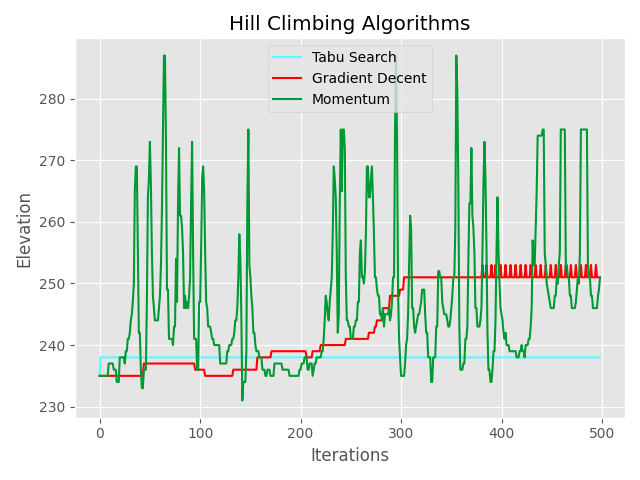
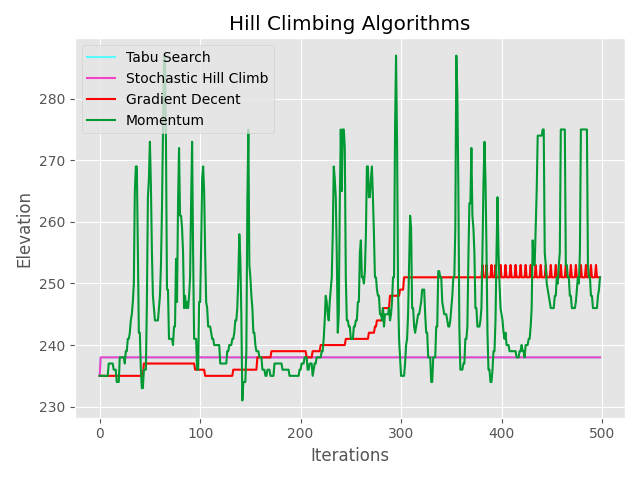
Stochastic hill climbing

Changed region(s): [[0.1562, 0.0938, 0.6562, 0.2812], [0.1562, 0.7188, 0.9375, 0.75]]

diff --git a/src/algorithms.py b/src/algorithms.py
@@ -1,5 +1,6 @@
+import random
 import numpy as np
-from .helpers import calculate_gradient, get_possible_steps
+from .helpers import calculate_gradient, get_possible_steps, get_step_costs
 
 
 def tabu_search(rmap, theta, tabu_size=10, num_iters=10000):
@@ -32,6 +33,33 @@ def tabu_search(rmap, theta, tabu_size=10, num_iters=10000):
         print(f'({i}/{num_iters}): Update is {best_t}')
 
     return best_t, j_history[:i]
+
+
+def stochastic_hill_climb(rmap, theta, num_iters=10000):
+    cost = rmap.get_cost(*theta)
+    elevation = rmap.get_elevation(*theta)
+    j_history = np.zeros(shape=(num_iters, 3))
+    j_history[0] = [elevation, theta[0], theta[1]]
+
+    for i in range(1, num_iters):
+        steps = get_possible_steps(theta)
+        step_costs = get_step_costs(rmap, steps)
+
+        # extra loop for randomness to settle in
+        for j in range(50):
+            step, step_cost = random.choice(list(zip(steps, step_costs)))
+
+            if step_cost <= cost:
+                theta = step
+                cost = step_cost
+
+        elevation = rmap.get_elevation(*theta)
+        j_history[i] = [elevation, theta[0], theta[1]]
+
+        print(f'Elevation at {theta} is {elevation}')
+        print(f'({i}/{num_iters}): Update is {theta}')
+
+    return theta, j_history[:i]
 
 
 def gradient_descent(rmap, theta, alpha=.01, num_iters=10000):

diff --git a/main.py b/main.py
@@ -12,6 +12,7 @@ current_map = RasterMap(args['tif'])
 
 algorithms = {
     'Tabu Search': {'function': algo.tabu_search, 'color': '#56FCFF'},
+    'Stochastic Hill Climb': {'function': algo.stochastic_hill_climb, 'color': '#F442C5'},
     'Gradient Decent': {'function': algo.gradient_descent, 'color': '#FF0000'},
     'Momentum': {'function': algo.gradient_descent_w_momentum, 'color': '#009933'}
 }
